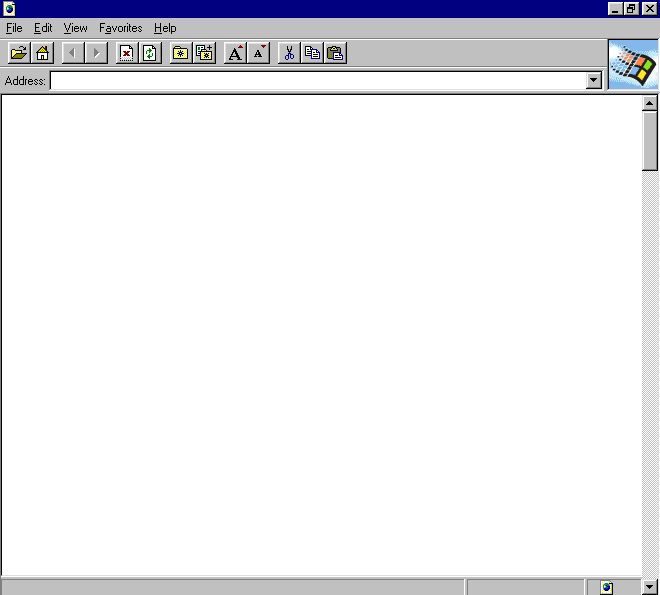
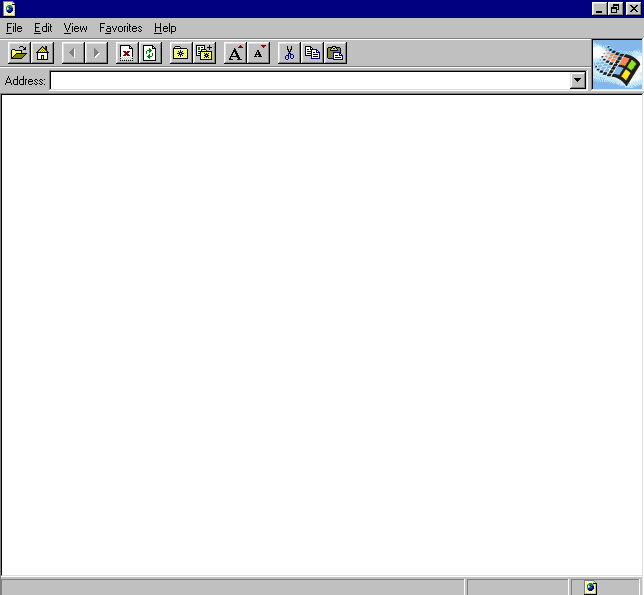
remove scroll-bars from browser-images

diff --git a/app/assets/stylesheets/timeline.css.scss b/app/assets/stylesheets/timeline.css.scss
@@ -19,7 +19,7 @@
       background: {
         image: url('browser/1994_ie.png');
       }
-      padding: 95px 18px 20px 2px;
+      padding: 95px 2px 20px 2px;
     }
 
     &.browser_1998 {
@@ -28,7 +28,7 @@
       background: {
         image: url('browser/1998_ie.png');
       }
-      padding: 120px 22px 26px 6px;
+      padding: 120px 6px 26px 6px;
     }
 
     &.browser_2003 {
@@ -37,7 +37,7 @@
       background: {
         image: url('browser/2003_ff.png');
       }
-      padding: 126px 20px 4px 1px;
+      padding: 126px 4px 4px 1px;
     }
 
     &.browser_2008 {
